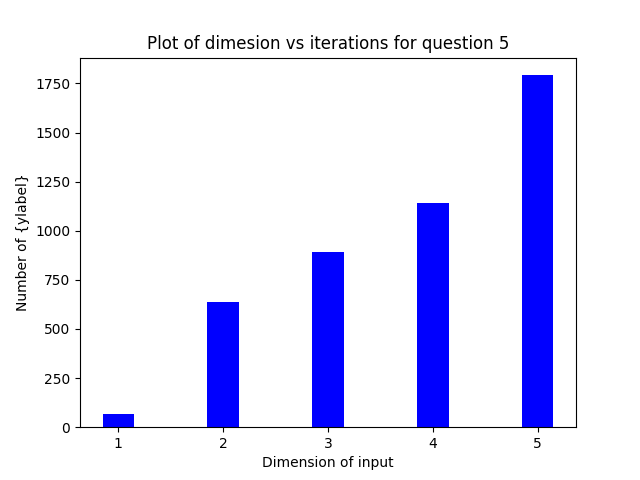
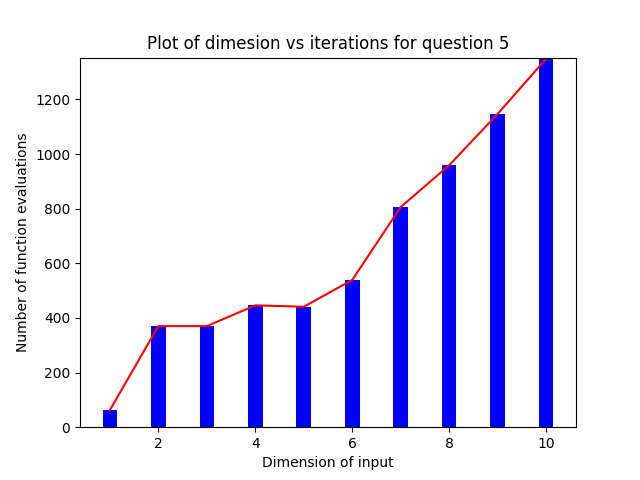
dimensions upto 10

diff --git a/multi_variable_optimization.py b/multi_variable_optimization.py
@@ -9,8 +9,8 @@ class Multi_optimization():
     def __init__(self, part, n, m, x):
         self.n = n
         self.x = np.random.rand(n)
-        print("Initial value for x : ", self.x)
         #self.x = np.array(x)
+        print("Initial value for x : ", self.x)
         self.part = part
         self.m = m
 
@@ -100,9 +100,6 @@ class Multi_optimization():
 
         return hess
 
-                
-
-
 
 class Marquardt_method(Multi_optimization):
     def __init__(self, part, n, m, x):
@@ -118,6 +115,7 @@ class Marquardt_method(Multi_optimization):
         x = self.x
         ld = self.ld
         func_eva = 0
+        x_array = []
         
         while(True):
             f_grad = self.gradient(x)
@@ -142,28 +140,28 @@ class Marquardt_method(Multi_optimization):
 
                 s_k = np.dot(-1, np.matmul(inverse, f_grad))
 
-                # bounding_phase_method = Bounding_phase_method(self.part, x, s_k)
-                # bounding_phase_method.minimize()
-                # a_bounding_phase, b_bounding_phase, func_eva_bounding_phase = bounding_phase_method.results()
+                bounding_phase_method = Bounding_phase_method(self.part, x, s_k)
+                bounding_phase_method.minimize()
+                a_bounding_phase, b_bounding_phase, func_eva_bounding_phase = bounding_phase_method.results()
 
-                # func_eva+=func_eva_bounding_phase
-                # print(f"--------------------------------------------------")
-                # print(f"Range from bounding phase method => a : {a_bounding_phase}, b : {b_bounding_phase}")
+                func_eva+=func_eva_bounding_phase
+                print(f"--------------------------------------------------")
+                print(f"Range from bounding phase method => a : {a_bounding_phase}, b : {b_bounding_phase}")
 
-                # interval_halving_method = Interval_halving_method(self.part, x, s_k, a=a_bounding_phase, b=b_bounding_phase)
-                # interval_halving_method.minimize()
-                # a_interval_halving, b_interval_halving, func_eva_interval_halving = interval_halving_method.results()
+                interval_halving_method = Interval_halving_method(self.part, x, s_k, a=a_bounding_phase, b=b_bounding_phase)
+                interval_halving_method.minimize()
+                a_interval_halving, b_interval_halving, func_eva_interval_halving = interval_halving_method.results()
                 
-                # func_eva+= func_eva_interval_halving
+                func_eva+= func_eva_interval_halving
                 
-                # alpha = a_interval_halving + (b_interval_halving-a_interval_halving)/2
+                alpha = a_interval_halving + (b_interval_halving-a_interval_halving)/2
 
-                # print(f"--------------------------------------------------")
-                # print(f"Range from interval halving phase method => a : {a_bounding_phase}, b : {b_bounding_phase}")
+                print(f"--------------------------------------------------")
+                print(f"Range from interval halving phase method => a : {a_bounding_phase}, b : {b_bounding_phase}")
 
-                #x_plus_one = np.add(x, np.dot(alpha, s_k))
+                x_plus_one = np.add(x, np.dot(alpha, s_k))
 
-                x_plus_one = np.add(x, s_k)
+                #x_plus_one = np.add(x, s_k)
 
                 func_eva+=1
                 if self.equation(x_plus_one)<=f_x:
@@ -173,6 +171,7 @@ class Marquardt_method(Multi_optimization):
 
             ld = ld/2
             x = x_plus_one
+            x_array.append(x)
             k=k+1
             
         
@@ -181,6 +180,7 @@ class Marquardt_method(Multi_optimization):
         self.k = k
         self.x = x
         self.func_eva = func_eva
+        self.x_array = x_array
 
     def results(self):
         return self.x, self.k, self.func_eva
@@ -188,12 +188,19 @@ class Marquardt_method(Multi_optimization):
 
 
 def histogram(x_axis, y_axis, part, ylabel):
-    #plt.ylim(min(y_axis)-1, max(y_axis)+2)
+    plt.ylim(0, max(y_axis)+4)
     plt.xlabel("Dimension of input")
-    plt.ylabel("Number of {ylabel}")
+    plt.ylabel(f"Number of {ylabel}")
     plt.title(f"Plot of dimesion vs iterations for question {part}")
-    plt.bar(x_axis, y_axis, color='blue', width=0.3)
+    plt.bar(x= x_axis, height = y_axis, color='blue', width=0.3)
+
+    for i in range(0,len(y_axis)):
+        plt.plot(x_axis[i], y_axis[i], 'green')
+
+    plt.plot(x_axis, y_axis, color='red')
+
     plt.savefig(f"./phase_2_graphs/bar_plots/{ylabel}/question_{part}.png")
+    plt.figure().clear()
 
 
 def main():
@@ -211,7 +218,7 @@ def main():
 
         print(f"--------------------------------------------------------------")
 
-        marquardt = Marquardt_method(part, n, m, [1, -1, 1, -1, 1])
+        marquardt = Marquardt_method(part, n, m, [0.333, 0])
         marquardt.minimize()
 
         print(f"--------------------------------------------------------------")
@@ -230,22 +237,25 @@ def create_histogram_plots():
     for i in range(1, 6):
         itrs=[]
         func_evas = []
-        for j in range(1, 6):
+        for j in range(1, 11):
             print(f"--------------------------------------------------------------")
-            marquardt = Marquardt_method(i, j, 100)
+            marquardt = Marquardt_method(i, j, 100, [])
             marquardt.minimize()
             print(f"--------------------------------------------------------------")
             x, itr, func_eva = marquardt.results()
             itrs.append(itr)
             func_evas.append(func_eva)
-            print(f"Results from marquardt method for row {i+1}: {x}")
+            print(f"Results from marquardt method for part {i} and dimension {j} : {x}")
+            print(f"Iterations for part {i} and dimension {j} : {type(itr)}")
+            print(f"function evaluation for part {i} and dimension {j} : {func_eva}")
 
-        histogram([1,2,3,4,5], itrs, i, "iterations")
-        histogram([1,2,3,4,5], func_evas, i, "function evaluations")
+        print(f"Iterations recovered {itrs}: ")
+        histogram([1,2,3,4,5,6,7,8,9,10], itrs, i, "iterations")
+        histogram([1,2,3,4,5,6,7,8,9,10], func_evas, i, "function evaluations")
 
 if __name__ == "__main__":
-    main()
-    #create_histogram_plots()
+    #main()
+    create_histogram_plots()
 
 
 
